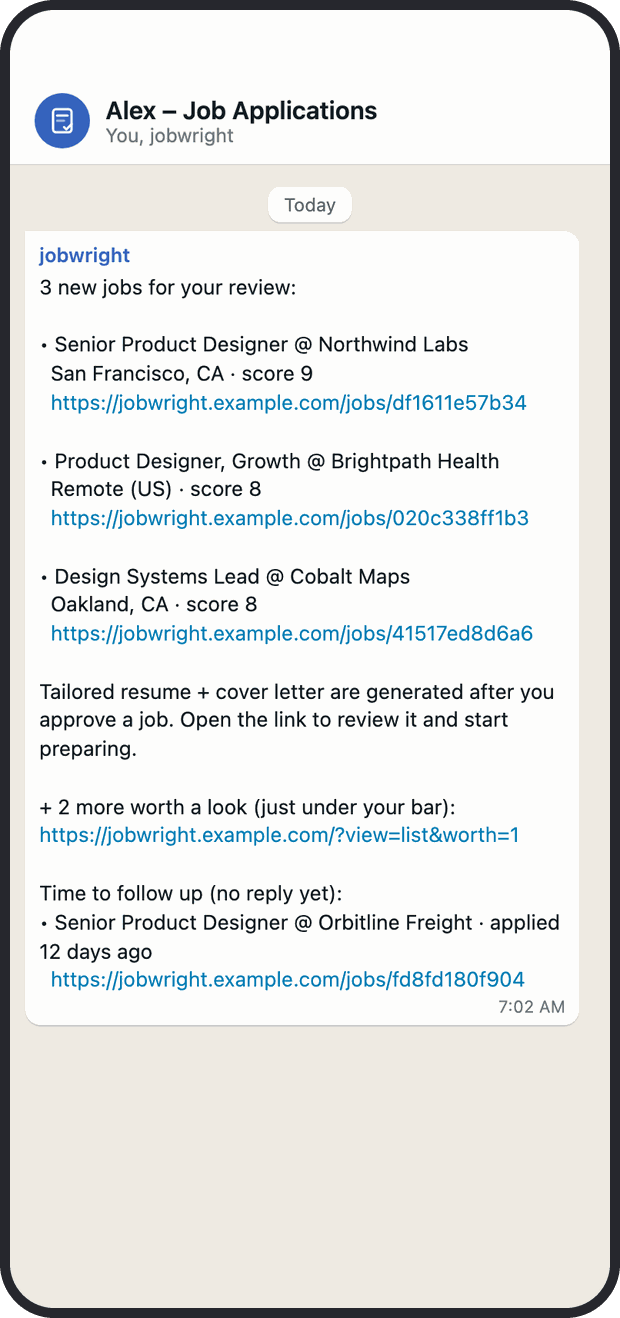
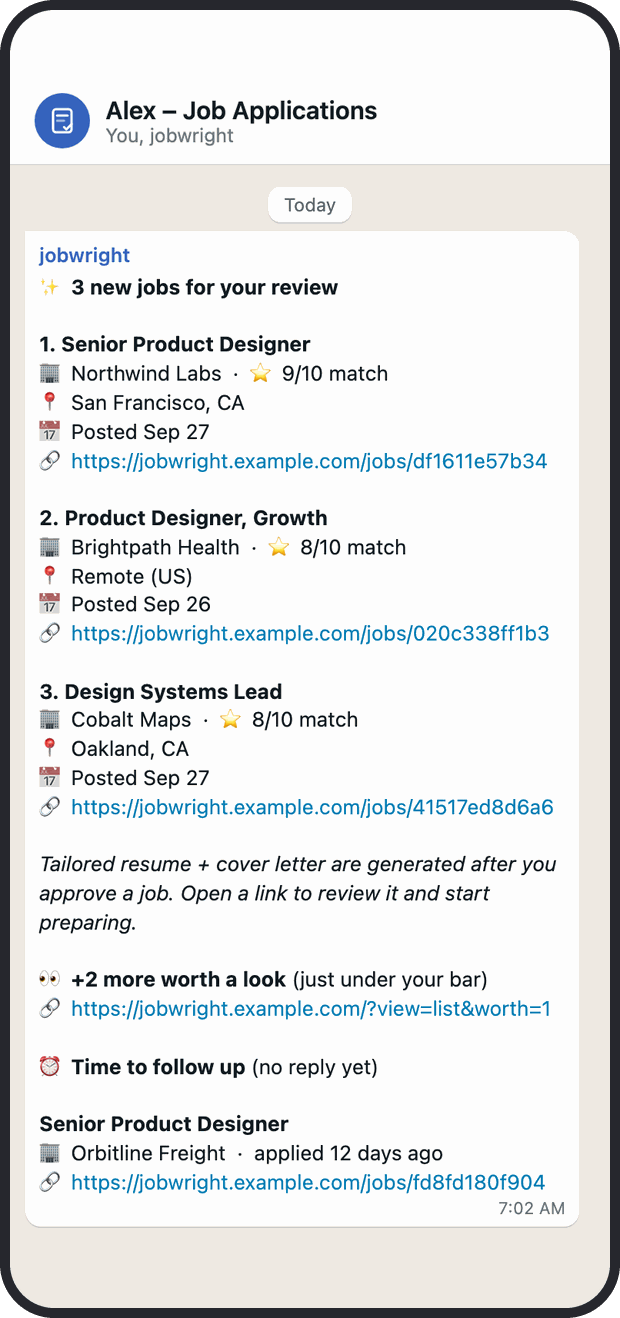
Docs: README refresh, new WhatsApp screenshot, changelog and AGENTS sync
README screenshot grid gains match-quality and materials images; the
WhatsApp image renders the new card format (bold/italic, posted dates) from
notify's own text. AGENTS.md and CHANGELOG cover the hourly watchdog,
setup-gated brief crons, the list format and the .env quoting rule.

Changed region(s): [[0.0306, 0.1866, 0.95, 0.9332]]

diff --git a/scripts/readme_images.py b/scripts/readme_images.py
@@ -25,7 +25,7 @@ from playwright.sync_api import Route, sync_playwright
 
 from jobwright.database import job_id_for_url
 from jobwright.followups import format_followups
-from jobwright.notify import build_review_notification
+from jobwright.notify import build_review_notification, worth_a_look_line
 
 REPO = Path(__file__).resolve().parents[1]
 DIST = REPO / "frontend" / "dist"
@@ -399,18 +399,53 @@ MATERIALS = {
     "resume_docx": "Alex_Rivera_Northwind_Labs.docx",
     "cover_md": "Dear Northwind Labs team,\n\nI would love to help shape your analytics workspace...",
     "cover_docx": "Alex_Rivera_Northwind_Labs_cover.docx",
+    "resume_preview": RESUME_MD,
+    "cover_preview": (
+        "Dear Tidewater Studio team,\n\nI have spent six years designing tools people use for hours a day, "
+        "most recently leading the design system at a B2B analytics company. Your staff role on the "
+        "creative tools product is the kind of deep, craft-heavy work I want next."
+    ),
+}
+
+def _metrics(threshold: int, tp: int, fp: int, fn: int) -> dict:
+    p, r = tp / (tp + fp), tp / (tp + fn)
+    return {"threshold": threshold, "predicted_pos": tp + fp, "tp": tp, "fp": fp, "fn": fn,
+            "precision": p, "recall": r, "f05": 1.25 * p * r / (0.25 * p + r)}
+
+
+QUALITY = {
+    "labels_total": 34,
+    "labels_30d": 21,
+    "eval_set": {"size": 34, "relevant": 14},
+    "notified_30d": 58,
+    "notified_advanced_30d": 11,
+    "latest_eval": {
+        "run_id": "demo",
+        "at": "2026-09-27T17:00:00",
+        "prompt_version": "v2",
+        "config": {"n": 34, "positives": 14},
+        "metrics": {"6": _metrics(6, 12, 5, 2), "7": _metrics(7, 10, 2, 4)},
+        "metrics_explicit": {"6": _metrics(6, 12, 5, 2), "7": _metrics(7, 10, 2, 4)},
+        "baseline": {"7": _metrics(7, 8, 5, 6)},
+        "baseline_explicit": {"7": _metrics(7, 8, 5, 6)},
+        "errors": 0,
+    },
+    "recommended_threshold": {"threshold": 6, "meets_bar": True, "min_precision": 0.7,
+                              "precision": 12 / 17, "recall": 12 / 14, "current": 7},
+    "usage_30d": [],
 }
 
 DRAFT = {"profile": PROFILE_JSON, "criteria": CRITERIA, "searches": {k: SEARCHES[k] for k in ("queries", "locations", "boards", "min_salary")}}
 
-NOTIFY_JOBS = [j for j in JOBS if j["funnel_stage"] == "backlog" and j["fit_score"] >= 7]
+NOTIFY_JOBS = [{**j, "date_posted": f"2026-09-{27 - i % 2:02d}"}
+               for i, j in enumerate(j for j in JOBS if j["funnel_stage"] == "backlog" and j["fit_score"] >= 7)]
 FOLLOWUPS = [{"title": JOBS[7]["title"], "company": JOBS[7]["company"], "applied_days_ago": 12, "job_id": JOBS[7]["job_id"]}]
 
 
 def whatsapp_message() -> str:
     """The daily list exactly as notify.py formats it (review-first, the onboarding default)."""
     msg = build_review_notification(NOTIFY_JOBS, LINK_BASE)
-    msg += f"\n\n+ 2 more worth a look (just under your bar): {LINK_BASE}/?view=list&worth=1"
+    msg += "\n\n" + worth_a_look_line(2, LINK_BASE)
     msg += "\n\n" + format_followups(FOLLOWUPS, LINK_BASE)
     return msg
 
@@ -452,6 +487,8 @@ def api_response(method: str, path: str, state: dict):
         return DRAFT
     if path == "/api/runs":
         return {"runs": []}
+    if path == "/api/quality":
+        return QUALITY
     if path == "/api/admin/overview":
         return ADMIN_OVERVIEW
     if path.startswith("/api/admin/costs"):
@@ -597,6 +634,8 @@ def whatsapp_html() -> str:
     import html
 
     text = html.escape(whatsapp_message())
+    text = re.sub(r"(?<![\w*])\*([^*\n]+?)\*(?![\w*])", r"<b>\1</b>", text)  # WhatsApp *bold*
+    text = re.sub(r"(?<![\w_/])_([^_\n]+?)_(?![\w_])", r"<i>\1</i>", text)  # WhatsApp _italic_
     text = re.sub(r"(https://\S+)", r'<a>\1</a>', text)
     return f"""<!doctype html><html><head><meta name="viewport" content="width=device-width, initial-scale=1"><style>
     * {{ box-sizing: border-box; margin: 0; }}
@@ -686,6 +725,18 @@ def main() -> int:
         shot({"admin": False, "setup_complete": False}, "/welcome", "welcome.png", to_fit)
         shot(member, "/profile?tab=whatsapp", "settings-daily-list.png")
         shot(admin, "/admin", "admin.png")
+        shot(member, "/quality", "match-quality.png")
+
+        def to_materials(page):
+            heading = page.get_by_role("heading", name="Resume", exact=True)
+            section = page.locator("section", has=heading)
+            section.get_by_role("combobox").first.click()
+            page.get_by_role("option", name="Tailored for this job").click()
+            section.get_by_role("tab", name="Markdown").click()
+            heading.evaluate("el => el.scrollIntoView({block: 'start'})")
+
+        prepared = next(j for j in JOBS if j["company"] == "Tidewater Studio")
+        shot(member, f"/jobs/{prepared['job_id']}", "materials.png", to_materials)
 
         for name, html_doc, viewport, frame in (
             ("whatsapp-list.png", whatsapp_html(), PHONE, True),

diff --git a/AGENTS.md b/AGENTS.md
@@ -10,7 +10,7 @@ Entry point for **Cursor, Claude Code, Hermes, and cron wrappers**. Read this fi
 
 **Product model:** jobwright is a daily career advisor for **any number of invited users**. Each user supplies a base resume, profile, search criteria and match criteria. The pipeline discovers jobs, scores fit with an LLM (scoring v2), tailors resume + cover letter per strong match (from base materials only), exports DOCX, and ranks LinkedIn connections per job. The web dashboard is the primary surface: every job is a card with tailored materials, connections, a match explanation, one-tap rating, and a gated apply button. Once per day the pipeline sends ONE WhatsApp message listing newly ready jobs, each with a deep link into the dashboard. The user reviews and applies from the dashboard; optional browser apply is gated and never runs from cron. LinkedIn jobs appear as cards; only auto-apply is blocked (`apply_blocked` in `sites.yaml`).
 
-**Multi-user model (v0.6, [ADR-005](docs/adr/ADR-005-multi-user-auth-and-request-context.md)):** profiles live in `users/users.yaml` + `users/<id>/`. Each profile lists the Cloudflare Access login `emails` that may open it; a top-level `admins` list (plus `JOBWRIGHT_ADMIN_EMAILS`) may open, switch to, create and edit any profile; `ops_target` is where operator alerts go. A login with no profile lands on `/welcome`: six steps (About you → Resume upload with an LLM draft of profile, searches and match criteria → Your search → How we judge fit → Daily list (admins pick the chat; everyone else sees the connected chat read-only) + send time → Cover letters), then a review; "Find my first jobs" starts the first search and opens an optional **Rate a few jobs** step (`/welcome/rate`). Required steps are resume, profile and searches; a chat is not required. WhatsApp chats are admin-managed: only admins can list chats (`GET /api/whatsapp/chats`, 403 otherwise) or change a profile's `whatsapp_target` (`PUT /api/profile`, admin `PATCH`); everyone else sees their connected chat read-only (`whatsapp_chat_name` on `GET /api/profile`) and `POST /api/whatsapp/test` only reaches their own chat. When setup creates a profile's brief cron (resume + profile present, chat set), `welcome.py` sends a one-time welcome to that chat and a heads-up to `ops_target` (marker `users/<id>/logs/welcome_sent.json`; skipped under `JOBWRIGHT_HERMES_DRY_RUN`). The API binds the active profile per request (`config.user_context`, a ContextVar), so concurrent users never share paths. The Cloudflare Access allow policy `jobwright users` is kept equal to every profile email plus admins (`jobwright access sync`, Admin page card, and automatically after email/admin/profile changes when `CLOUDFLARE_API_TOKEN` is set; other policies are never touched).
+**Multi-user model (v0.6, [ADR-005](docs/adr/ADR-005-multi-user-auth-and-request-context.md)):** profiles live in `users/users.yaml` + `users/<id>/`. Each profile lists the Cloudflare Access login `emails` that may open it; a top-level `admins` list (plus `JOBWRIGHT_ADMIN_EMAILS`) may open, switch to, create and edit any profile; `ops_target` is where operator alerts go. A login with no profile lands on `/welcome`: six steps (About you → Resume upload with an LLM draft of profile, searches and match criteria → Your search → How we judge fit → Daily list (admins pick the chat; everyone else sees the connected chat read-only) + send time → Cover letters), then a review; "Find my first jobs" starts the first search and opens an optional **Rate a few jobs** step (`/welcome/rate`). Required steps are resume, profile and searches; a chat is not required. WhatsApp chats are admin-managed: only admins can list chats (`GET /api/whatsapp/chats`, 403 otherwise) or change a profile's `whatsapp_target` (`PUT /api/profile`, admin `PATCH`); everyone else sees their connected chat read-only (`whatsapp_chat_name` on `GET /api/profile`) and `POST /api/whatsapp/test` only reaches their own chat. A brief cron is only created once setup is done (resume + profile present): by the Daily list save, an admin edit, or the hourly watchdog, which installs it for any set-up profile with a chat but no cron (e.g. someone who left before the Daily list step). When the brief cron is created, `welcome.py` sends a one-time welcome to that chat and a heads-up to `ops_target` (marker `users/<id>/logs/welcome_sent.json`; skipped under `JOBWRIGHT_HERMES_DRY_RUN`). The API binds the active profile per request (`config.user_context`, a ContextVar), so concurrent users never share paths. The Cloudflare Access allow policy `jobwright users` is kept equal to every profile email plus admins (`jobwright access sync`, Admin page card, and automatically after email/admin/profile changes when `CLOUDFLARE_API_TOKEN` is set; other policies are never touched).
 
 **Auth:** `JOBWRIGHT_AUTH_MODE=cloudflare` (production pm2) verifies the `Cf-Access-Jwt-Assertion` header (or `CF_Authorization` cookie) against the team JWKS at `https://$JOBWRIGHT_CF_TEAM_DOMAIN/cdn-cgi/access/certs`, audience `JOBWRIGHT_CF_AUD`. `dev` (local, `restart.sh --tmux`) trusts the caller (`JOBWRIGHT_DEV_EMAIL`, or anonymous admin) and refuses requests carrying Cloudflare edge headers. Default: `cloudflare` when `JOBWRIGHT_CF_TEAM_DOMAIN` is set, else `dev`.
 
@@ -20,7 +20,7 @@ Entry point for **Cursor, Claude Code, Hermes, and cron wrappers**. Read this fi
 
 **Labels and evals:** human ratings are append-only in `score_labels` (with a job snapshot, so they survive pruning); `jobs.user_fit_score` mirrors the latest. Dashboard ratings (thumbs + reason chips) and "Not for me" dismissals with reasons both append labels and become retrieved examples on the next scoring run. `jobwright eval` replays the scorer on the labeled set and reports precision/recall at 6/7/8 versus stored production scores (report JSON in the user's `logs/`); run it before changing prompts, models or criteria logic.
 
-**Ops ([ADR-007](docs/adr/ADR-007-ops-alerts-backups-internal-disk.md)):** `run_daily_brief.sh` runs `jobwright preflight --fix` (installs the Playwright Chromium the package needs), the pipeline, `notify` (writes `notify_sent N` / `notify_skipped <reason>` / `notify_failed <error>`), and always ends with `jobwright ops brief-report`, which alerts `ops_target` on any problem and writes `logs/ops_health.json` for the dashboard banner. Hermes crons (all `--no-agent`, `--deliver local`): `jobwright-brief-<user>`, `jobwright-ops-watchdog` (08:30, missed runs), `jobwright-backup` (02:30, `jobwright ops backup` to `JOBWRIGHT_BACKUP_DIR`), `jobwright-weekly-summary` (Sunday 18:00, `jobwright summary` for every profile; per-user opt-out `weekly_summary` in `users.yaml`), `jobwright-weekly-eval` (Sunday 17:00, `jobwright ops weekly-eval`: accuracy check for profiles with 20+ ratings). Cron scripts log to `logs/cron_<name>.log`. Recommended deployment: a checkout on the internal disk (e.g. `/Users/parthchandak/apps/jobwright`) with pm2 running uvicorn without `--reload`; the external SSD only holds backups.
+**Ops ([ADR-007](docs/adr/ADR-007-ops-alerts-backups-internal-disk.md)):** `run_daily_brief.sh` runs `jobwright preflight --fix` (installs the Playwright Chromium the package needs), the pipeline, `notify` (writes `notify_sent N` / `notify_skipped <reason>` / `notify_failed <error>`), and always ends with `jobwright ops brief-report`, which alerts `ops_target` on any problem and writes `logs/ops_health.json` for the dashboard banner. Hermes crons (all `--no-agent`, `--deliver local`): `jobwright-brief-<user>`, `jobwright-ops-watchdog` (hourly at :30: first installs missing brief crons for set-up profiles, then alerts on a brief not started 30 min after its time, or unfinished 120 min after it started; profiles still in setup are skipped; one alert per problem per day, `logs/watchdog_alerts.json`), `jobwright-backup` (02:30, `jobwright ops backup` to `JOBWRIGHT_BACKUP_DIR`), `jobwright-weekly-summary` (Sunday 18:00, `jobwright summary` for every profile; per-user opt-out `weekly_summary` in `users.yaml`), `jobwright-weekly-eval` (Sunday 17:00, `jobwright ops weekly-eval`: accuracy check for profiles with 20+ ratings). Cron scripts log to `logs/cron_<name>.log`. Recommended deployment: a checkout on the internal disk (e.g. `/Users/parthchandak/apps/jobwright`) with pm2 running uvicorn without `--reload`; the external SSD only holds backups.
 
 **Kanban dashboard:** FastAPI + React at `jobwright.parthchandak.info` (local `:8002`). Lanes `backlog → prepare → applied → in_progress → offer → closed`; agent auto-advances to prepare; human owns Applied+. Pages: board, `/jobs/:jobId` (deep link, mobile-first drawer), `/profile` ("Settings": Search, Match rules, Documents, Daily list, About you), `/quality` (Match quality: plain-language accuracy, one-tap "Use N+" cutoff; eval/rescore and AI usage admin-only), `/admin` (admins only), `/welcome`. Every page has the phone menu. UI follows design v2 ("calm & refined"); build from the primitives in [.cursor/skills/frontend-tasteful](.cursor/skills/frontend-tasteful/SKILL.md) (WP1–WP6 shipped). See [dashboard-hosting.md](docs/agents/dashboard-hosting.md) and [ADR-004](docs/adr/ADR-004-kanban-funnel-stage.md).
 
@@ -155,7 +155,7 @@ Env (full list with comments: `.env.example`): `FIREWORKS_API_KEY` (preferred), 
 
 **User inputs (once per profile, usually via `/welcome`):** `resume/base.pdf`, `profile.json` (incl. `match_criteria`), `searches.yaml`, `cover-letter/examples/`, optional `connections.csv`, WhatsApp chat + brief time.
 
-**Daily brief cron** (`jobwright-brief-<user>`, default 6:00, `--deliver local`): `jobwright_brief.sh` launches `run_daily_brief.sh` detached (an already-running brief is left alone): preflight → default stages → `notify` → `ops brief-report`. Notify sends ONE plain-text WhatsApp message to the user's `whatsapp_target` listing new jobs (discovered within `JOBWRIGHT_BRIEF_MAX_AGE_DAYS`), each with a `/jobs/<job_id>` deep link, stamps `whatsapp_notified_at`, and skips when nothing is new. Up to 3 due follow-ups (Applied with no stage change for `followup_days`, default 10) are appended at the end. Problems alert `ops_target`, not the user's chat.
+**Daily brief cron** (`jobwright-brief-<user>`, default 6:00, `--deliver local`): `jobwright_brief.sh` launches `run_daily_brief.sh` detached (an already-running brief is left alone): preflight → default stages → `notify` → `ops brief-report`. Notify sends ONE WhatsApp message (native `*bold*` / `_italic_` via `whatsapp.bold`/`italic`, one emoji per field; `hermes send` does not convert markdown) to the user's `whatsapp_target` listing new jobs (discovered within `JOBWRIGHT_BRIEF_MAX_AGE_DAYS`), numbered, each with title @ company (match score), location, a `/jobs/<job_id>` deep link and the posted date (`jobs.date_posted` from JobSpy/LinkedIn/Workday; "Found: <date>" when the board gives none), stamps `whatsapp_notified_at`, and skips when nothing is new. Up to 3 due follow-ups (Applied with no stage change for `followup_days`, default 10) are appended at the end. Problems alert `ops_target`, not the user's chat.
 
 **Dashboard:** `GET /api/me` returns the login, admin flag and openable profiles; `POST /api/session` switches profile (only to allowed ones). **Auto Search** runs the prep pipeline (`POST /api/run`, SSE `GET /api/stream/{run_id}`, **Stop** `POST /api/runs/{run_id}/stop`; runs persist in `users/<id>/logs/web_runs.json`). **WhatsApp** header dialog: pending count and **Send now** (`POST /api/notify`). Settings → Daily list: admins get the chat picker (`GET /api/whatsapp/chats`, admin-only, every chat Hermes can post to); others see the connected chat read-only. Test send (`POST /api/whatsapp/test`: admins may pass a `target`, others always hit their own chat), brief time; autosave (`PUT /api/profile`) re-syncs `jobwright-brief-<user>` only when the schedule or chat changes, or the per-user wrapper is missing (`hermes_cron.brief_cron_installed`). Job drawer: match explanation, rating (`PATCH /api/jobs/{url}` → label), stage picker, follow-up reminder with "Followed up" / "No response" (`POST /api/jobs/{url}/followup`), dismiss with reasons, materials with Auto/Custom Tailor (`POST /api/jobs/{url}/tailor/resume|cover`). Status banner (`GET /api/status`): last run, ops health, WhatsApp bridge. Quality (`/api/quality`, `/api/quality/eval`, `/api/quality/rescore`), criteria (`GET`/`PUT /api/criteria`, `PATCH /api/criteria {notify_threshold}` cutoff-only so derived rules stay derived, `POST /api/criteria/suggest`), admin (`/api/admin/overview`, `/api/admin/users` (+ `PATCH`/`DELETE /api/admin/users/{id}`, `POST /api/admin/users/{id}/test-message`, `POST /api/admin/users/{id}/run`), `/api/admin/costs`, `/api/admin/settings`, `/api/admin/access[/sync]`, `/api/admin/hermes-channels[/apply]`, `/api/admin/watchdog`, `/api/admin/ops-test`), onboarding (`/api/onboarding/status|profile|draft|confirm`; `GET /api/onboarding/calibration`: up to 10 scored, unrated jobs mixing borderline/high/low scores for the optional `/welcome/rate` step and the board's `CalibrationBanner`).
 
@@ -210,7 +210,7 @@ Cloning this repo does **not** register Hermes skills automatically. Run `./scri
 
 ---
 
-**Last verified:** `0.6.0` (2026-09-29). LinkedIn discovery uses a cookie-less guest client (`discovery/linkedin.py`; filters before description fetch, 7-day `logs/linkedin_rejects.json`; `JOBWRIGHT_LINKEDIN=jobspy` rollback). Remote searches carry `remote_scope` (`us` default / `any`) in `searches.yaml` `locations`; it drives the discovery remote filter and a LOCATION line in the scoring prompt (`discovery/location.py` `remote_scope`). Multi-user: Cloudflare Access JWT → `users.yaml` `emails` / `admins` / `ops_target`, per-request `config.user_context` (`src/jobwright/web/auth.py`, `web/session.py`, `config.py`). Scoring v2 (`scoring/matcher.py`, `pipeline_v2.py`, `criteria.py`, `examples.py`, `evaluate.py`, `criteria_miner.py`; tables `score_labels`, `score_history`, `llm_usage`; default `glm-5p3-flash` + `reasoning_effort=low`). Tombstones + cross-board dedupe (`job_tombstones`, `discovery/dedupe.py`). Ops (`ops.py`, `preflight.py`, `hermes_cron.py`: brief/watchdog/backup crons, `--deliver local`). Onboarding + admin-managed WhatsApp chats (`onboarding.py`, `whatsapp.py` incl. `chat_name` with a 10-minute group-name cache, `welcome.py`, `web/routers/{onboarding,whatsapp,admin,quality}.py`). Design v2 WP1–WP5 (2026-09-27): `frontend/src/components/{ui,welcome,profile,admin}/`. Apply dry-run unless `--live`. Quality gate: `uv run --extra dev --extra web pytest tests/ -q`; scoped `ruff check` on changed `src/` files. Dashboard Access session: 30d (`720h`). Hermes loader template is `3.1.0`; re-run `./scripts/install_skills.sh` after pull.
+**Last verified:** `0.6.0` (2026-09-30). `.env` is `source`d by bash in the brief launcher: quote any value with spaces or JSON (e.g. `JOBWRIGHT_LLM_PRICES='{...}'`), or every brief dies before it starts. LinkedIn discovery uses a cookie-less guest client (`discovery/linkedin.py`; filters before description fetch, 7-day `logs/linkedin_rejects.json`; `JOBWRIGHT_LINKEDIN=jobspy` rollback). Remote searches carry `remote_scope` (`us` default / `any`) in `searches.yaml` `locations`; it drives the discovery remote filter and a LOCATION line in the scoring prompt (`discovery/location.py` `remote_scope`). Multi-user: Cloudflare Access JWT → `users.yaml` `emails` / `admins` / `ops_target`, per-request `config.user_context` (`src/jobwright/web/auth.py`, `web/session.py`, `config.py`). Scoring v2 (`scoring/matcher.py`, `pipeline_v2.py`, `criteria.py`, `examples.py`, `evaluate.py`, `criteria_miner.py`; tables `score_labels`, `score_history`, `llm_usage`; default `glm-5p3-flash` + `reasoning_effort=low`). Tombstones + cross-board dedupe (`job_tombstones`, `discovery/dedupe.py`). Ops (`ops.py`, `preflight.py`, `hermes_cron.py`: brief/watchdog/backup crons, `--deliver local`). Onboarding + admin-managed WhatsApp chats (`onboarding.py`, `whatsapp.py` incl. `chat_name` with a 10-minute group-name cache, `welcome.py`, `web/routers/{onboarding,whatsapp,admin,quality}.py`). Design v2 WP1–WP5 (2026-09-27): `frontend/src/components/{ui,welcome,profile,admin}/`. Apply dry-run unless `--live`. Quality gate: `uv run --extra dev --extra web pytest tests/ -q`; scoped `ruff check` on changed `src/` files. Dashboard Access session: 30d (`720h`). Hermes loader template is `3.1.0`; re-run `./scripts/install_skills.sh` after pull.
 
 ## graphify
 

diff --git a/README.md b/README.md
@@ -40,7 +40,7 @@ flowchart TD
   tailor --> track["Track stages<br/>follow-ups, recap"]
   notify --> report["ops brief-report<br/>alerts operator"]
   subgraph opscron["Ops crons"]
-    watchdog["Watchdog 08:30"]
+    watchdog["Watchdog hourly"]
     backup["Backup 02:30"]
   end
   watchdog -.-> report
@@ -58,8 +58,8 @@ flowchart TD
   <tr>
     <td align="center" width="25%"><img src="docs/images/settings-daily-list.png" alt="Settings, Daily list: connected chat, send time, weekly summary, follow-up reminders" width="200"><br><sub><b>Settings</b><br>Chat, send time, reminders</sub></td>
     <td align="center" width="25%"><img src="docs/images/admin.png" alt="Admin: system status and the people list with each person's chat and send time" width="200"><br><sub><b>Admin</b><br>People, chats and system health</sub></td>
-    <td width="25%"></td>
-    <td width="25%"></td>
+    <td align="center" width="25%"><img src="docs/images/match-quality.png" alt="Match quality: 58 jobs sent, 34 ratings, picks right about 8 in 10 times, and a suggestion to use a 6+ cutoff" width="200"><br><sub><b>Match quality</b><br>How often picks are right</sub></td>
+    <td align="center" width="25%"><img src="docs/images/materials.png" alt="Job drawer, Resume section: tailored resume for this job with Auto Tailor, Custom and Download" width="200"><br><sub><b>Materials</b><br>Tailored resume and cover letter</sub></td>
   </tr>
 </table>
 
@@ -102,7 +102,7 @@ uv run --extra web --with pillow python scripts/readme_images.py --demo
 
 1. A Chromium window opens on the board, signed in as the demo admin "Alex Rivera".
 2. Click **Senior Product Designer** at Northwind Labs to open the job drawer and its match explanation.
-3. Open the menu for **Settings** (Daily list tab) and **Admin**.
+3. Open the menu for **Match quality**, **Settings** (Daily list tab) and **Admin**.
 4. Close the window to stop. Edits are not saved anywhere.
 
 Expected terminal output: `Demo running with fake data. Close the browser window to stop.`
@@ -110,10 +110,12 @@ Expected terminal output: `Demo running with fake data. Close the browser window
 To check the code instead, run the test suite (no keys needed, about a minute):
 
 ```bash
-uv run pytest tests/ -q      # 343 passed
+uv run pytest tests/ -q      # 349 passed
 ```
 
 ## Install
+
+There is no hosted sign-up and no app store listing. jobwright runs on one machine that someone (the admin) owns, and other people join by invitation.
 
 <details>
 <summary><b>Job seekers</b></summary>
@@ -139,7 +141,7 @@ uv run jobwright run -w 4 --min-score 7
 uv run jobwright status
 ```
 
-Without an LLM key, `jobwright doctor` reports "Tier 1 — Discovery": `jobwright run discover` works, scoring and tailoring do not. With `pip` instead of uv: `pip install -e ".[dev,web]"`.
+Without an LLM key, `jobwright doctor` reports Tier 1 (Discovery): `jobwright run discover` works, scoring and tailoring do not. With `pip` instead of uv: `pip install -e ".[dev,web]"`.
 
 </details>
 
@@ -173,7 +175,7 @@ In `dev` auth mode the dashboard trusts the caller (anonymous admin, or `JOBWRIG
 
 A normal day for a job seeker:
 
-1. The daily list arrives at your chosen time (new profiles default to 7:00): "3 new jobs for your review", each with a score and a link.
+1. The daily list arrives at your chosen time (new profiles default to 7:00): "3 new jobs for your review", numbered, each with title and company, match score, location, a dashboard link and the date posted.
 2. Tap a link. The job drawer shows the match explanation. Rate it (**Yes** / **No**) or dismiss it with **Not for me** and a reason.
 3. For jobs you want, tap **Prepare**. The tailored resume and cover letter appear in the drawer in a few minutes, as text and DOCX.
 4. Apply on the employer's site, tap **I applied**, and move the card along as things happen.
@@ -191,7 +193,7 @@ A normal day for a job seeker:
 | `resume/base.pdf` | Source of truth for tailoring; `resume/base.md` is derived from it |
 | `profile.json` | Contact info, work authorization, compensation, experience, skills, portfolio projects; start from [profile.example.json](profile.example.json) |
 | `profile.json` → `match_criteria` | Dealbreakers, good-fit role types, locations, seniority, pay floor, `notify_threshold`; derived from your preferences until edited (Settings → Match rules, or `jobwright criteria suggest --save`) |
-| `searches.yaml` | Queries, locations, boards, title exclusions, min salary |
+| `searches.yaml` | Queries, locations (remote jobs limited to the US or open to all countries), boards, title exclusions, min salary |
 | `cover-letter/examples/` | Style and tone for cover letters |
 | `connections.csv` (optional) | LinkedIn export for per-job connections |
 
@@ -225,6 +227,7 @@ A normal day for a job seeker:
 - **No silent failures.** Problems (failed preflight or stages, zero scored jobs, notify failure, a brief that never ran) alert the operator's chat, not the job seeker's. If some stages fail, the list still goes out with whatever is ready.
 - **Each login sees only its own profile.** Cloudflare Access verifies the login; the API binds the profile per request. Only admins can list or change WhatsApp chats.
 - **Never commit** `.env`, `users/`, `~/.jobwright/`, `ecosystem.config.js`, resumes, `connections.csv` or any API token.
+- **The repo is public, so personal data is blocked.** `scripts/check_private_data.py` rejects real-looking emails, WhatsApp chat ids and every value in your local registry. It runs as a pre-commit and pre-push hook (install once per clone with `bash scripts/install_git_hooks.sh`) and in CI. Use placeholders such as `alex@example.com` in docs and tests.
 
 ## Reference
 
@@ -232,6 +235,7 @@ A normal day for a job seeker:
 <summary><b>Build and test</b></summary>
 
 ```bash
+bash scripts/install_git_hooks.sh       # once per clone: personal-data guard on commit and push
 uv run pytest tests/ -q                 # full suite
 uv run ruff check src tests             # lint
 cd frontend && pnpm run build           # type-check + production build into frontend/dist
@@ -306,7 +310,7 @@ All are created with `--no-agent --deliver local` by `jobwright ops install-cron
 | Cron | When | What |
 |------|------|------|
 | `jobwright-brief-<user>` | The profile's send time (7:00 for new profiles) | `jobwright_brief.sh` → `run_daily_brief.sh`: preflight, default stages, `notify`, `ops brief-report` |
-| `jobwright-ops-watchdog` | 08:30 daily | Alerts on briefs that never ran (120 min grace) |
+| `jobwright-ops-watchdog` | Hourly at :30 | Alerts once a day on briefs that never started (30 min grace) or never finished (120 min) |
 | `jobwright-backup` | 02:30 daily | `jobwright ops backup`: SQLite online backup + rsync snapshots, 14 days kept |
 | `jobwright-weekly-eval` | Sunday 17:00 | `jobwright ops weekly-eval`: accuracy check for profiles with 20+ ratings |
 | `jobwright-weekly-summary` | Sunday 18:00 | `jobwright summary` for every profile (opt out with `weekly_summary: false`) |

diff --git a/docs/CHANGELOG.md b/docs/CHANGELOG.md
@@ -15,6 +15,7 @@ and this project adheres to [Semantic Versioning](https://semver.org/spec/v2.0.0
 - **README rewritten as a landing page**: hero banner, why, how it works (5 steps + one Mermaid flowchart of the daily brief), screenshot grid, features table, a secret-free 5-minute demo, install split by audience, configuration tables, safety callout, and reference sections in `<details>` blocks.
 - Images in `docs/images/` (`hero.png`, `board.png`, `job-drawer.png`, `welcome.png`, `settings-daily-list.png`, `admin.png`, `whatsapp-list.png`) come from `scripts/readme_images.py`: the built dashboard in headless Chromium with every `/api/**` call answered by fake fixtures (a person "Alex Rivera", made-up companies, example.com links) and all other network requests blocked; the WhatsApp image renders the exact text `notify.build_review_notification` + `followups.format_followups` produce for those jobs. Regenerate: `cd frontend && pnpm run build`, then `uv run --extra web --with pillow python scripts/readme_images.py`; `--demo` opens the same fake-data dashboard in a visible window.
 - Fixed in the README: the daily brief and Auto Search do not skip `pdf` for profiles without review-first (the full default list is every stage); review-first (`human_gate`) is on for new profiles and runs `discover enrich score portfolio connect`, sending "N new jobs for your review" capped at 10; direct career sites (smart extract) only run with `DISCOVER_MODE=full`, the daily brief runs `fast`; JobSpy boards listed correctly (LinkedIn and Glassdoor were missing, defaults are Indeed, LinkedIn, ZipRecruiter); `python-jobspy` is a normal dependency now, so the `pip install --no-deps python-jobspy` workaround is gone; the `jobwright-weekly-eval` cron (Sunday 17:00, `ops weekly-eval`) was missing; install uses `uv sync --extra web --extra dev`; the dashboard build (Vite 7) needs Node 20.19+, which the old requirements table did not mention.
+- README refresh: the screenshot grid is full (new `match-quality.png` and `materials.png`, a prepared job's tailored resume; `scripts/readme_images.py` gained `/api/quality` and `resume_preview`/`cover_preview` fixtures); Install says plainly there is no hosted sign-up; safety and build sections cover the personal-data guard and `scripts/install_git_hooks.sh`; `searches.yaml` row mentions the remote scope (US only or all countries). Fixed: the test count is 349, not 343. The other seven images regenerate byte-identical.
 
 ### Changed
 - **LinkedIn discovery no longer goes through JobSpy** (`discovery/linkedin.py`). A client for LinkedIn's public (logged-out) job endpoints is shared by every worker: search on the jobs-guest API, descriptions from the public job page (`/jobs/view/<id>`, falling back to jobs-guest `jobPosting/<id>` only when the page has none). It never stores LinkedIn's cookies (a cookie session is throttled to about one request a second; without cookies a 16-search crawl runs roughly twice as fast). Requests start `JOBWRIGHT_LINKEDIN_INTERVAL` apart (default 0.5s); a 429 or 999 widens the spacing once per burst and retries only that request after 2/4/8s, successes narrow it again. Search pages 10 at a time newest first (JobSpy's growing stride skipped results), skips known URLs and applies location, title, company and card-salary filters before fetching a description, fetches each description once per run, and stops after two pages with nothing new. Jobs whose description fails the filters are remembered for 7 days in `logs/linkedin_rejects.json` (cleared when the filter settings change) so daily runs stop re-fetching them. US-scoped Remote searches ask for "United States" plus the remote filter instead of worldwide "Remote", and unknown countries no longer crash a search (`Invalid country string`). Indeed and other boards still use JobSpy, in their own call. `JOBWRIGHT_LINKEDIN=jobspy` restores the old path.
@@ -23,8 +24,13 @@ and this project adheres to [Semantic Versioning](https://semver.org/spec/v2.0.0
 - Profile saves re-sync the brief cron only when the schedule or chat changes, or when the per-user wrapper is missing (`hermes_cron.brief_cron_installed`).
 - `jobwright ops install-crons` skips brief crons for profiles that haven't finished setup (`onboarding.is_set_up`: resume + profile).
 - Derived match criteria honour a stored `match_criteria.notify_threshold`.
+- **WhatsApp daily list is formatted**: each job is a numbered card with a bold title, company and match score, location, posted date and dashboard link, one emoji per line (native WhatsApp `*bold*` / `_italic_`, `whatsapp.bold`/`italic`; `hermes send` does not convert markdown). Follow-ups and the weekly summary use the same style. The posted date comes from the new `jobs.date_posted` column (JobSpy, the LinkedIn guest client and Workday's "Posted N Days Ago"); jobs without one show "Found <date>".
+- **Watchdog runs hourly** (was 08:30 daily): alerts once per problem per day (`logs/watchdog_alerts.json`) when a brief has not started 30 min after its time or has not finished 120 min after it started, skips profiles still in setup, and first installs the brief cron (plus the one-time welcome) for any set-up profile with a chat but no cron.
+- `PUT /api/profile` only creates a brief cron once setup is done (resume + profile), so an early send-time save no longer schedules a brief that can only fail.
 
 ### Fixed
+- Daily briefs died before starting when `.env` held unquoted JSON (`JOBWRIGHT_LLM_PRICES={...}`): the launcher `source`s `.env` in bash. `.env.example` now shows the value single-quoted.
+- The 08:30 watchdog never checked briefs scheduled after 06:30, so a 07:00 brief could fail silently.
 - The discovery salary floor no longer drops jobs over numbers in the description that are not pay (years like "2027", headcounts, "401k", "$50M raised", sign-on bonuses, equity): description scans now read only $ / USD amounts, with hour/month units and a plausible annual range (`filters.parse_salary_from_text`). Structured salary fields are parsed as before.
 - Weekly summary counts a stage move only if the job is still in that stage or further along (`summary._moved`).
 - Admin overview no longer flips WhatsApp group names to raw ids: `whatsapp.chat_name` caches resolved group names for 10 minutes (`_name_cache`).
